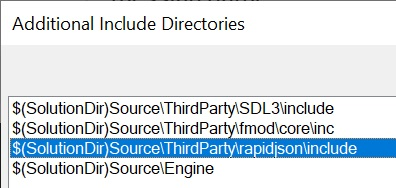
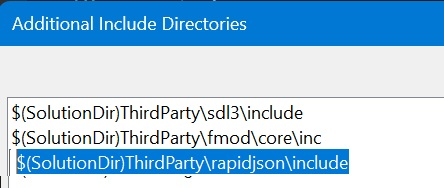
json guide update

diff --git a/_posts/GameDev-CPP/2024-08-07-gamedev-cpp-json.md b/_posts/GameDev-CPP/2024-08-07-gamedev-cpp-json.md
@@ -31,6 +31,7 @@ The reverse process is called **deserialization**. The game engine will use JSON
 
 + Copy the .zip into the **ThirdParty** folder.
 + Extract the ```rapidjson-master.zip``` file.
+  + Make sure the contents of the rapidjson files are under this directory and not under another subdirectory.
 + Rename the extracted folder "rapidjson".
 <div align="left">
 <img src="json-zip.jpg" alt="Zip" width="65%"/>
@@ -52,23 +53,23 @@ The reverse process is called **deserialization**. The game engine will use JSON
 {: .prompt-warning }
 
  
-+ Add the directory of the FMOD include folder to the **Additional Include Directories**.
++ Add the directory of the **rapidjson** include folder to the **Additional Include Directories**.
   + **Additional Include Directories** is located in **C/C++>General**.
-  + Add ```$(SolutionDir)Source\ThirdParty\rapidjson\include```
+  + Add ```$(SolutionDir)ThirdParty\rapidjson\include```
 
 ```
-$(SolutionDir)Source\ThirdParty\rapidjson\include
+$(SolutionDir)ThirdParty\rapidjson\include
 ```
 <div align="left">
 <img src="json-include.jpg" alt="Include" width="75%"/>
 </div>
 
 ### Create JSON File ###
-+ In the **Build/Assets** folder create a text file called ```json.txt```.
++ In the **Build/Assets** folder create a folder called ```data``` and a text file called ```json.txt```.
 <div align="left">
 <img src="json-file.jpg" alt="File" width="65%"/>
 </div>
-+ Open the file and add **JSON** data.
++ Open the file and add **JSON** data. Use your own values for name and age.
 ```
 {
 	"name": "Raymond",
@@ -100,20 +101,20 @@ $(SolutionDir)Source\ThirdParty\rapidjson\include
 
 ### Create JSON Functions ###
 
-+ Create a **Json.h** and **Json.cpp** in the **Core** filter in the **Engine** project, make sure the file is in the ```Source/Engine/Core``` folder.
++ Create a **Json.h** and **Json.cpp** in the  **Engine** project.
 <div align="left">
 <img src="json-files.jpg" alt="Json" width="85%"/>
 </div>
 
 #### Create JSON header (.h) ####
-+ In the **Json.h** file, add code for the function declarations to load and read the **JSON** file
-  + The functions are placed in a namespace to keep the function names in their own space
++ In the **Json.h** file, add code for the function declarations to load and read the **JSON** file.
+  + The functions are placed in a namespace to keep the function names in their own space **<your namespace::json>**
 
 ```
 #include <rapidjson/document.h>
 #include <string>
 
-namespace <engine namespace>::json
+namespace <your namespace>::json
 {
 	bool Load(const std::string& filename, rapidjson::Document& document);
 
@@ -172,11 +173,10 @@ namespace <engine namespace>::json
 }
 ```
 
-+ Include the **Json.h** in the **EngineMinimal.h**.
-  + Keep the include with the other Core includes.
++ Include the **Json.h** in the **Engine.h**.  
 
 ```
-#include "Core/Json.h"
+#include Json.h"
 ```
 
 ### Load and Read JSON in Main() ###
@@ -287,16 +287,16 @@ std::string name;
 int age;
 float speed;
 bool isAwake;
-<engine namespace>::vec2 position;
-<engine namespace>::vec3 color;
+<your namespace>::Vector2 position;
+<your namespace>::Vector3 color;
 
 // read the json data
-<engine namespace>::json::Read(document, "name", name);
-<engine namespace>::json::Read(document, "age", age);
-<engine namespace>::json::Read(document, "speed", speed);
-<engine namespace>::json::Read(document, "isAwake", isAwake);
-<engine namespace>::json::Read(document, "position", position);
-<engine namespace>::json::Read(document, "color", color);
+<your namespace>::json::Read(document, "name", name);
+<your namespace>::json::Read(document, "age", age);
+<your namespace>::json::Read(document, "speed", speed);
+<your namespace>::json::Read(document, "isAwake", isAwake);
+<your namespace>::json::Read(document, "position", position);
+<your namespace>::json::Read(document, "color", color);
 
 // show the data
 std::cout << name << " " << age << " " << speed << " " << isAwake << std::endl;
